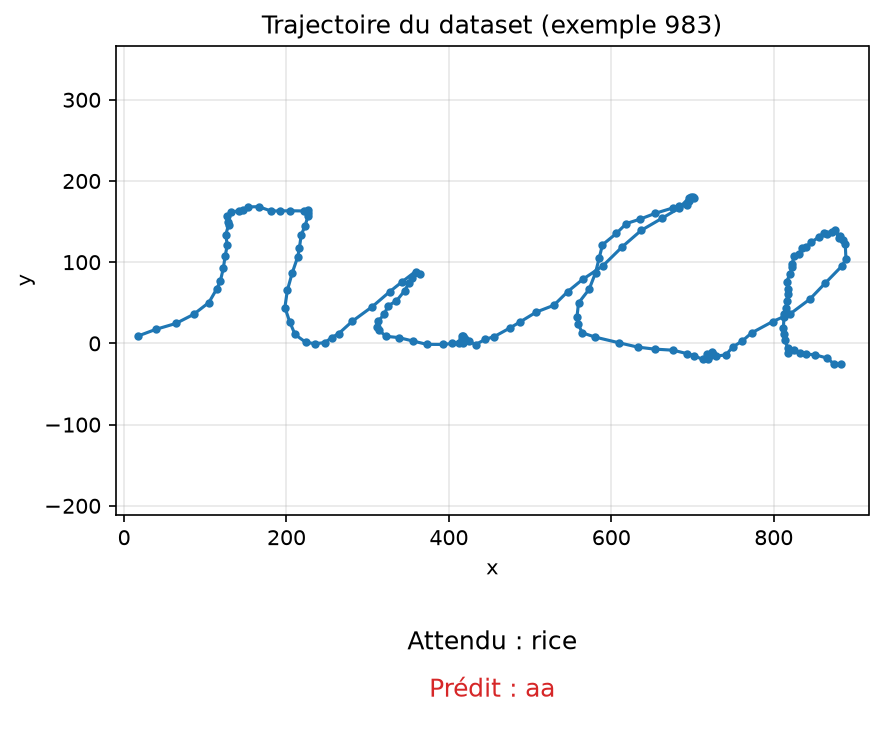
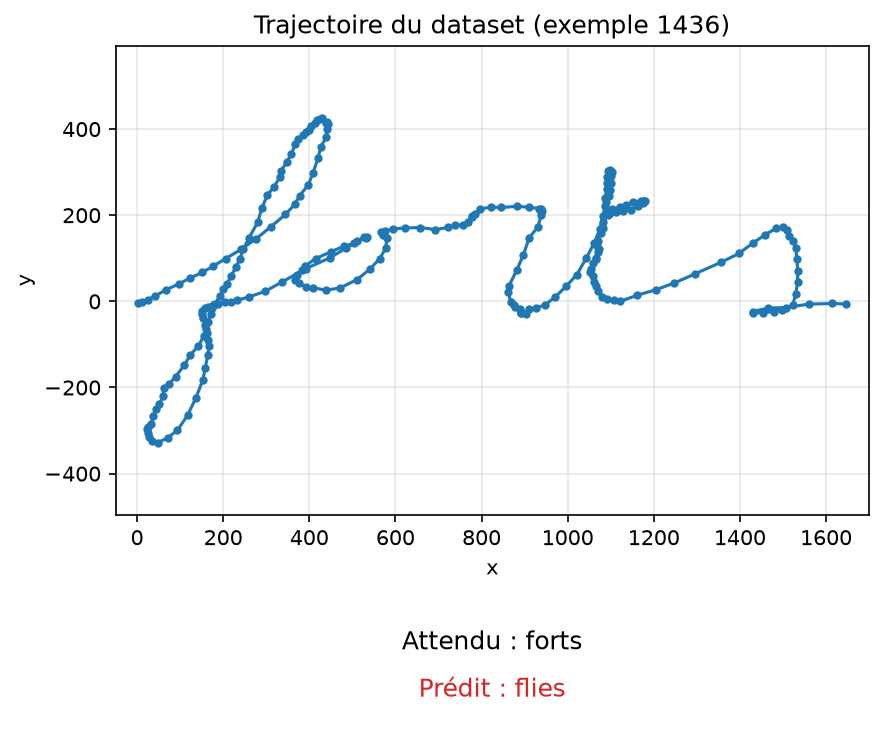
matrice de confusion fonctionnel

diff --git a/main.py b/main.py
@@ -19,7 +19,7 @@ if __name__ == '__main__':
 
     # ---------------- Paramètres et hyperparamètres ----------------#
     force_cpu = False           # Forcer a utiliser le cpu?
-    trainning = True           # Entrainement?
+    trainning = False           # Entrainement?
     test = True                # Test?
     learning_curves = True     # Affichage des courbes d'entrainement?
     gen_test_images = True     # Génération images test?
@@ -27,7 +27,7 @@ if __name__ == '__main__':
     n_workers = 0           # Nombre de threads pour chargement des données (mettre à 0 sur Windows)
 
     # À compléter
-    n_epochs = 200
+    n_epochs = 100
     batch_size = 64
     hidden_dim = 15
     n_layers = 3
@@ -78,8 +78,10 @@ if __name__ == '__main__':
     if trainning:
 
         # Fonction de coût et optimizateur
-        optimizer = optim.SGD(model.parameters(), lr=0.001)
-        loss_criterion = nn.CrossEntropyLoss()
+        optimizer = optim.Adam(model.parameters(), lr=0.01)
+        loss_criterion = nn.NLLLoss(
+            ignore_index=dataset.symb2int['<pad>']
+        )
 
         if learning_curves:
             plt.ion()
@@ -94,11 +96,12 @@ if __name__ == '__main__':
             for batch_idx, (data, target) in enumerate(train_loader):
                 data, target = data.to(device), target.to(device)
                 optimizer.zero_grad()
-                output, _, _ = model(data)
                 # CrossEntropyLoss utilise les indices de classes, donc on
                 # reconvertit la cible one-hot en indices avant le calcul.
                 target_indices = target.argmax(dim=-1).long()
-                loss = loss_criterion(output.transpose(1, 2), target_indices)
+                output, _, _ = model(data, target_indices)
+                log_output = torch.log(output.clamp_min(1e-8))
+                loss = loss_criterion(log_output.transpose(1, 2), target_indices)
                 loss.backward()
                 optimizer.step()
                 running_loss += loss.item()
@@ -108,15 +111,21 @@ if __name__ == '__main__':
             model.eval()
             val_loss = 0
             accuracy = 0
+            val_total_characters = 0
             with torch.no_grad():
                 for data, target in val_loader:
                     data, target = data.to(device), target.to(device)
                     output, _, _ = model(data)
                     target_indices = target.argmax(dim=-1).long()
-                    loss = loss_criterion(output.transpose(1, 2), target_indices)
+                    log_output = torch.log(output.clamp_min(1e-8))
+                    loss = loss_criterion(log_output.transpose(1, 2), target_indices)
                     val_loss += loss.item()
                     prediction = output.argmax(dim=-1)
-                    accuracy += (prediction == target_indices).sum().item()
+                    valid = target_indices != dataset.symb2int['<pad>']
+
+
+                    accuracy += ((prediction == target_indices) & valid).sum().item()
+                    val_total_characters += valid.sum().item()
 
 
             # Ajouter les loss aux listes
@@ -136,6 +145,8 @@ if __name__ == '__main__':
                 best_val = val_loss
                 print('Saving new best model\n')
                 torch.save(model, './poid.pt')
+
+
 
 
             # Affichage
@@ -167,11 +178,16 @@ if __name__ == '__main__':
         accuracy = 0
         total_characters = 0
         edit_distances = []
-        loss_criterion = nn.CrossEntropyLoss()
+        loss_criterion = nn.NLLLoss(
+            ignore_index=dataset.symb2int['<pad>']
+        )
         example_position = int(np.random.default_rng().integers(len(dataset_test)))
         example_prediction = None
         example_expected = None
         sample_offset = 0
+
+        true_labels = []
+        predicted_labels = []
 
         def indices_to_word(indices):
             """Convertit une séquence d'indices en chaîne sans les tokens spéciaux."""
@@ -200,11 +216,17 @@ if __name__ == '__main__':
 
                 target_indices = target.argmax(dim=-1).long()
                 prediction = output.argmax(dim=-1)
+                log_output = torch.log(output.clamp_min(1e-8))
                 test_loss += loss_criterion(
-                    output.transpose(1, 2), target_indices
+                    log_output.transpose(1, 2), target_indices
                 ).item()
-                accuracy += (prediction == target_indices).sum().item()
-                total_characters += target_indices.numel()
+                valid = target_indices != dataset.symb2int['<pad>']
+
+                true_labels.extend(target_indices[valid].cpu().numpy())
+                predicted_labels.extend(prediction[valid].cpu().numpy())
+
+                accuracy += ((prediction == target_indices) & valid).sum().item()
+                total_characters += valid.sum().item()
 
                 for batch_position, (predicted_indices, expected_indices) in enumerate(zip(
                     prediction.cpu(), target_indices.cpu()
@@ -218,6 +240,7 @@ if __name__ == '__main__':
                         edit_distance(predicted_word, expected_word)
                     )
                 sample_offset += prediction.size(0)
+
 
         mean_edit_distance = np.mean(edit_distances)
         mean_test_loss = test_loss / len(test_loader)
@@ -240,4 +263,6 @@ if __name__ == '__main__':
         # À compléter (si nécessaire)
 
         # Affichage de la matrice de confusion
-        # À compléter
+        true_labels = [dataset.int2symb[int(label)] for label in true_labels]
+        predicted_labels = [dataset.int2symb[int(label)] for label in predicted_labels]
+        confusion_matrix(true_labels, predicted_labels, [dataset.stop_symbol])

diff --git a/models.py b/models.py
@@ -43,7 +43,7 @@ class trajectory2seq(nn.Module):
         out, hidden = self.encode(x)
         return out, hidden
 
-    def decode_sequence(self, encoder_outs, hidden):
+    def decode_sequence(self, encoder_outs, hidden, target=None):
         batch_size = hidden.shape[1]
         sos_index = self.symb2int['<sos>']
         vec_in = torch.full(
@@ -55,16 +55,23 @@ class trajectory2seq(nn.Module):
             embedding = self.en_embedding(vec_in)
             decoder_out, hidden = self.decoder_rnn(embedding, hidden)
             logits = self.fc(decoder_out)
-            outputs.append(logits)
-            vec_in = logits.argmax(dim=-1)
+            probabilities = torch.softmax(logits, dim=-1)
+            outputs.append(probabilities)
+
+            # Pendant l'entraînement, utiliser le caractère attendu pour
+            # éviter qu'une mauvaise prédiction ne se propage à toute la suite.
+            if target is not None and i < self.maxlen - 1:
+                vec_in = target[:, i:i + 1]
+            else:
+                vec_in = probabilities.argmax(dim=-1)
 
         return torch.cat(outputs, dim=1), hidden, None
         
 
-    def forward(self, x):
+    def forward(self, x, target=None):
         # À compléter
         out, h = self.encoder(x)
-        out, hidden, attn = self.decode_sequence(out, h)
+        out, hidden, attn = self.decode_sequence(out, h, target)
         return out, hidden, attn
     
 

diff --git a/metrics.py b/metrics.py
@@ -2,6 +2,10 @@
 # Auteur: Jean-Samuel Lauzon et  Jonathan Vincent
 # Hivers 2021
 import numpy as np
+import matplotlib.pyplot as plt
+from sklearn.metrics import confusion_matrix as cm
+from sklearn.metrics import ConfusionMatrixDisplay
+
 
 def edit_distance(a,b):
     # Calcul de la distance d'édition
@@ -33,9 +37,23 @@ def edit_distance(a,b):
     print(mat)
     return mat[len(a), len(b)]
 
-def confusion_matrix(true, pred, ignore=[]):
+def confusion_matrix(true, pred, ignore=None):
     # Calcul de la matrice de confusion
 
-    # À compléter
+    labels = sorted(set(true) | set(pred))
+    if ignore:
+        labels = [label for label in labels if label not in ignore]
 
-    return None
+    confusion = cm(true, pred, labels=labels)
+
+    display = ConfusionMatrixDisplay(
+        confusion_matrix=confusion,
+        display_labels=labels,
+    )
+    display.plot(cmap="Blues")
+
+    plt.title("Matrice de confusion")
+    plt.savefig("matrice_confusion.png")
+
+
+    return confusion
